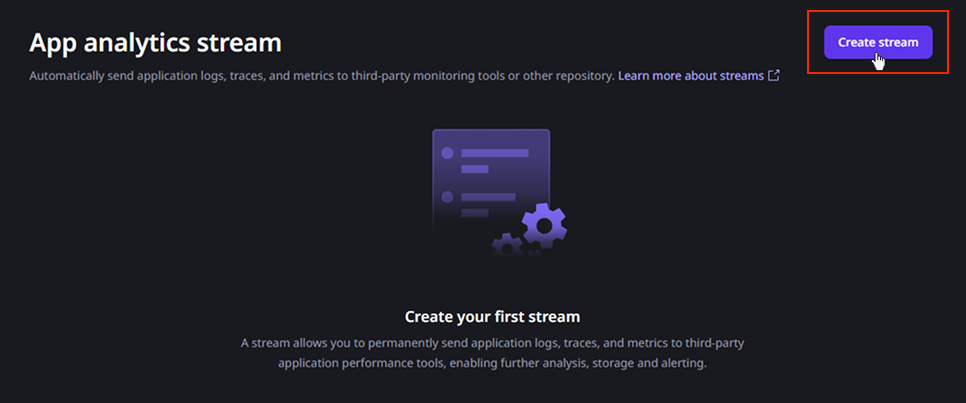
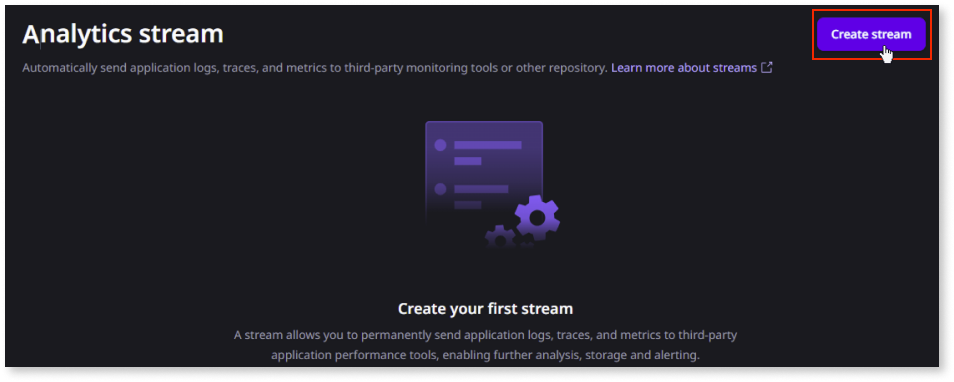
replaced app analytics stream with analytics stream tk-17991

Changed region(s): [[0.0, 0.0, 1.0, 1.0], [0.456, 0.4607, 0.608, 0.6335], [0.4256, 0.3168, 0.5776, 0.4607]]

diff --git a/src/eap/monitor-and-troubleshoot/stream-app-analytics/stream-app-analytics-overview.md b/src/eap/monitor-and-troubleshoot/stream-app-analytics/stream-app-analytics-overview.md
@@ -23,7 +23,7 @@ audience:
 
 <div class="info" markdown="1">
 
-App Analytics Stream require an add-on [subscription](../../manage-platform-app-lifecycle/subscription-console.md). Please contact your OutSystems account team for more information.
+**Analytics Stream** requires an add-on [subscription](../../manage-platform-app-lifecycle/subscription-console.md). Please contact your OutSystems account team for more information.
 
 This functionality uses the Data platform, which may process data outside your ODC organization region to provide its capabilities. For more information, refer to [Data platform](../../manage-platform-app-lifecycle/platform-architecture/intro.md#data-platform).
 
@@ -31,7 +31,7 @@ This functionality uses the Data platform, which may process data outside your O
 
 Streaming observability data is the process of continuously collecting and sending metric, log, and trace data to analysis and monitoring tools in near real-time. This gives you immediate insights into how your apps and systems are working. By streaming observability data in near real-time, you can proactively monitor, analyze, and respond to potential issues, ultimately enhancing app reliability and performance.
 
-With ODC's App Analytics Stream enabled, you can stream obserevability data from ODC apps to various third-party application performance monitoring (APM) tools, including Elastic Cloud, Datadog, Dynatrace, Splunk, New Relic, and Amazon S3. This real-time flow provides you with dynamic insights into app performance and behavior. 
+With ODC's **Analytics Stream** enabled, you can stream obserevability data from ODC apps to various third-party application performance monitoring (APM) tools, including Elastic Cloud, Datadog, Dynatrace, Splunk, New Relic, and Amazon S3. This real-time flow provides you with dynamic insights into app performance and behavior.
 
 ODC adopts the [OpenTelemetry](https://opentelemetry.io/) standard to stream observability data to various APM tools. OpenTelemetry is an [open-source](https://github.com/open-telemetry) observability framework comprising a collection of tools, APIs, and SDKs that you can use to instrument, generate, collect, and export observability data to help analyze your apps' performance and behavior. OpenTelemetry is tool-agnostic, meaning it can be used with various commercial and open-source APM tools without significant configuration changes.
 
@@ -39,9 +39,9 @@ ODC adopts the [OpenTelemetry](https://opentelemetry.io/) standard to stream obs
 
 Before you start streaming observability data, ensure you have:
 
-* A subscription to App Analytics Stream. Contact your account manager for provisioning.
+* A subscription to **Analytics stream**. Contact your account manager for provisioning.
 
-* The Manage App Analytics Stream permission.
+* The Manage **Analytics stream** permission.
 
 ## Benefits of streaming observability data
 
@@ -79,7 +79,7 @@ ODC uses the [OpenTelemetry Protocol (OTLP)](https://opentelemetry.io/docs/specs
 
 * For a scenario of temporary unavailability from the APM tool destination, failed batches are queued and retried for up to 48 hours in order to avoid data loss during this period. Such scenarios may delay the delivery of logs.
 * HTTP 500/gRPC Internal Error and HTTP 413 Payload Too Large responses from the APM tool ingestion will cause the current batch to be dropped.
-* APM tools may implement rules and limits to the ingestion, which are followed by App Analytics Stream when adherent to the OpenTelemetry protocol, but unexpected changes and other restrictive limits may impact the streaming service and prevent data from being ingested in the APM tool.
+* APM tools may implement rules and limits to the ingestion, which are followed by **Analytics Stream** when adherent to the OpenTelemetry protocol, but unexpected changes and other restrictive limits may impact the streaming service and prevent data from being ingested in the APM tool.
 
 </div>
 
@@ -96,7 +96,7 @@ ODC supports the following tools:
 
 <div class="info" markdown="1">
 
-Other tools compatible with the OpenTelemetry protocol and OTLP-formatted data are typically capable of interpreting ODC's observability data, but you need to evaluate them. Also, many APM tools are not native-compatible. For example, Splunk, Datadog, and Amazon S3 have implemented and distributed a public exporter library with the OpenTelemetry collector. 
+Other tools compatible with the OpenTelemetry protocol and OTLP-formatted data are typically capable of interpreting ODC's observability data, but you need to evaluate them. Also, many APM tools are not native-compatible. For example, Splunk, Datadog, and Amazon S3 have implemented and distributed a public exporter library with the OpenTelemetry collector.
 
 The OpenTelemetry collector is an app that runs separately and must be launched/supported by customers. For more information, refer to [Set up an OpenTelemetry collector.](stream-app-analytics-opentelemetry.md)
 
@@ -123,7 +123,7 @@ For detailed information, refer to [Streamed trace data](stream-app-analytics-tr
 
 **Metrics data** presents numerical measurements of your app's performance and resource usage. Key metrics include:
 
-*  **Total requests**: The total number of requests made to any asset originating from elements such as screens, client actions, REST/service actions, timers, and global event handlers. 
+* **Total requests**: The total number of requests made to any asset originating from elements such as screens, client actions, REST/service actions, timers, and global event handlers.
 
     <div class="info" markdown="1">
 
@@ -145,6 +145,6 @@ For detailed information, refer to [Streamed metrics data](stream-app-analytics-
 
 * [Set up the OpenTelemetry collector](stream-app-analytics-opentelemetry.md)
 
-* [Configuring streams in the ODC Portal](stream-app-analytics-configure.md)
+* [Configure analytics streams in the ODC Portal](stream-app-analytics-configure.md)
 
 * [Monitoring and troubleshooting apps](../monitor-apps.md)

diff --git a/src/eap/monitor-and-troubleshoot/stream-app-analytics/stream-app-analytics-apm.md b/src/eap/monitor-and-troubleshoot/stream-app-analytics/stream-app-analytics-apm.md
@@ -27,7 +27,7 @@ outsystems-tools:
 
 # Streaming observability data to APM tools
 
-With ODC's App Analytics Stream, you can stream your observability data in an OpenTelemetry Protocol (OTLP) format to different Application Performance Monitoring (APM) tools so that you can analyze, monitor, and proactively troubleshoot your system. You can easily integrate your app with any APM tool, as most monitoring tools support data ingestion in OpenTelemetry (OTel) format.
+With ODC's **Analytics Stream**, you can stream your observability data in an OpenTelemetry Protocol (OTLP) format to different Application Performance Monitoring (APM) tools so that you can analyze, monitor, and proactively troubleshoot your system. You can easily integrate your app with any APM tool, as most monitoring tools support data ingestion in OpenTelemetry (OTel) format.
 
 # Set up observability data streams
 
@@ -43,9 +43,9 @@ For information about the prerequisites for streaming observability data, refer 
 
 1. (Optional) [Set up OpenTelemetry collector](stream-app-analytics-opentelemetry.md). If your tool does not support native ingestion of OpenTelemetry data, you must install and deploy the OpenTelemetry collector.
 
-1. To enable streaming from an ODC app to the corresponding APM tool, you must configure the APM server URL or OpenTelemetry collector URL and authentication credentials. For more information, refer to [Configure app analytics streams in Portal](stream-app-analytics-configure.md).
+1. To enable streaming from an ODC app to the corresponding APM tool, you must configure the APM server URL or OpenTelemetry collector URL and authentication credentials. For more information, refer to [Configure analytics streams in the ODC Portal](stream-app-analytics-configure.md).
 
-1. Test and validate the connection. In the ODC Portal, test if your app has established a connection with the APM tool and if the test data is sent to the destination tool. For more information, refer to [Configure app analytics streams in Portal](stream-app-analytics-configure.md). If the connection fails, refer to the [troubleshooting guide](https://success.outsystems.com/support/errors/log_streaming_errors/) to understand why and how to resolve the errors and retest the connection.
+1. Test and validate the connection. In the ODC Portal, test if your app has established a connection with the APM tool and if the test data is sent to the destination tool. For more information, refer to [Configure analytics streams in the ODC Portal](stream-app-analytics-configure.md). If the connection fails, refer to the [troubleshooting guide](https://success.outsystems.com/support/errors/log_streaming_errors/) to understand why and how to resolve the errors and retest the connection.
 
 1. Add the stages you want to stream data from and save your stream.
 
@@ -71,4 +71,4 @@ For detailed information on streaming observability data to different APM tools,
 
 * [Set up the OpenTelemetry Collector](stream-app-analytics-opentelemetry.md)
 
-* [Configuring streams in the ODC Portal](stream-app-analytics-configure.md)
+* [Configure analytics streams in the ODC Portal](stream-app-analytics-configure.md)

diff --git a/src/eap/monitor-and-troubleshoot/stream-app-analytics/stream-app-analytics-splunk.md b/src/eap/monitor-and-troubleshoot/stream-app-analytics/stream-app-analytics-splunk.md
@@ -26,19 +26,19 @@ This article explains how you can stream observability data from ODC apps to the
 
 ## Prerequisites
 
-Before streaming observability data to **Splunk**, ensure you have a subscription to the **App Analytics Stream**. Contact your account manager for provisioning.
+Before streaming observability data to **Splunk**, ensure you have a subscription to the **Analytics Stream**. Contact your account manager for provisioning.
 
 ## Set up streaming observability data to Splunk
 
 To configure streaming observability data, using **Splunk** as the destination tool, follow these steps:
 
-1. Set up the HTTP Event Collector on Splunk. 
+1. Set up the HTTP Event Collector on Splunk.
 
     Refer to the instructions [here](https://docs.splunk.com/Documentation/Splunk/9.2.1/Data/UsetheHTTPEventCollector).
 
 1. Set up the [OpenTelemetry Collector](stream-app-analytics-opentelemetry.md)
 
-1. Configure a receiver that accepts HTTP or gRPC connections (refer to [OTLP Receiver](https://github.com/open-telemetry/opentelemetry-collector/blob/main/receiver/otlpreceiver/README.md) for an example) and that uses the Splunk Exporter 
+1. Configure a receiver that accepts HTTP or gRPC connections (refer to [OTLP Receiver](https://github.com/open-telemetry/opentelemetry-collector/blob/main/receiver/otlpreceiver/README.md) for an example) and that uses the Splunk Exporter.
 
     Refer to [Splunk HEC Example](https://github.com/signalfx/splunk-otel-collector/tree/main/examples/otel-logs-splunk) for an example.
 
@@ -46,12 +46,11 @@ To configure streaming observability data, using **Splunk** as the destination t
 
 1. Get the OpenTelemetry Collector endpoint and authentication credentials.
 
-Once you've completed these steps, go to the ODC Portal and [configure a stream](stream-app-analytics-configure.md). 
+Once you've completed these steps, go to the ODC Portal and [configure a stream](stream-app-analytics-configure.md).
 
 ## Additional resources
 
 [Get started with the Splunk Distribution of the OpenTelemetry Collector](https://docs.splunk.com/observability/en/gdi/opentelemetry/opentelemetry.html)
-
 
 ## Related resources
 
@@ -61,4 +60,4 @@ Once you've completed these steps, go to the ODC Portal and [configure a stream]
 
 * [Set up the OpenTelemetry Collector](stream-app-analytics-opentelemetry.md)
 
-* [Configure app analytics streams in Portal](stream-app-analytics-configure.md)
+* [Configure analytics streams in the ODC Portal](stream-app-analytics-configure.md)

diff --git a/src/eap/getting-started/capacity-limits.md b/src/eap/getting-started/capacity-limits.md
@@ -46,7 +46,7 @@ ODC enforces capacity limits per resource type. These limits apply at the stage 
 * **Custom code execution duration**: Custom code execution duration is the time taken to run [custom code](../building-apps/external-logic/intro.md) from start to completion. The daily custom code execution duration is the total execution time of all custom code runs in a day. 
 * **Database compute**: The amount of compute resources (memory and CPU) allocated to the database that's shared across all assets in a given stage.
 * **Database storage**: The storage capacity allocated to the database, shared across all assets in a stage.
-* **[App analytics stream](../monitor-and-troubleshoot/stream-app-analytics/stream-app-analytics-overview.md)**: Monthly limit on logs, traces, and metrics streaming across all stages.
+* **[Analytics stream](../monitor-and-troubleshoot/stream-app-analytics/stream-app-analytics-overview.md)**: Monthly limit on logs, traces, and metrics streaming across all stages.
 
 ### Runtime behavior and scaling
 
@@ -139,7 +139,7 @@ When approaching or surpassing capacity limits, the following issues may occur:
   * Run workflows and timers
 * Custom code execution duration: Calls to custom code libraries can cause errors and fail until the next day. This can lead to runtime errors in consumers.
 * Database compute and database storage: Apps and agents can experience performance issues, such as slower response times or timeout errors when accessing the database if there is insufficient capacity to accommodate all of the requests.
-* App analytics stream: You are warned when your organization's volume of streamed data is approaching the capacity limit.
+* Analytics stream: You are warned when your organization's volume of streamed data is approaching the capacity limit.
 
 When resource consumption is at its limit and actions that consume further resources are performed (like publishing a new app, for example), ODC displays an error. You may see these errors in ODC Studio when publishing, in ODC Portal when deploying to the next stage, or when manually running a timer. Other errors may also show at app runtime. These errors are also recorded in the [ODC logs](../monitor-and-troubleshoot/monitor-apps.md#logs).
 

diff --git a/src/eap/monitor-and-troubleshoot/stream-app-analytics/stream-app-analytics-new-relic.md b/src/eap/monitor-and-troubleshoot/stream-app-analytics/stream-app-analytics-new-relic.md
@@ -1,5 +1,5 @@
 ---
-summary: Stream observability data from OutSystems Developer Cloud (ODC) apps to New Relic using the App Analytics Stream subscription.
+summary: Stream observability data from OutSystems Developer Cloud (ODC) apps to New Relic using the Analytics Stream subscription.
 tags: observability data,new relic,apm tool,opentelemetry,api keys
 guid: 0142e89a-6164-41b9-bf04-3e41868496b8
 locale: en-us
@@ -25,7 +25,7 @@ This article explains how you can stream observability data from ODC apps to the
 
 ## Prerequisites
 
-Before streaming observability data to **New Relic**, ensure you have a subscription to the **App Analytics Stream**. Contact your account manager for provisioning.
+Before streaming observability data to **New Relic**, ensure you have a subscription to the **Analytics Stream**. Contact your account manager for provisioning.
 
 ## Set up streaming observability data to New Relic
 
@@ -49,7 +49,6 @@ Here are some additional helpful documentation, links, and articles:
 
 * [OpenTelemetry Collector configuration](https://opentelemetry.io/docs/collector/configuration/)
 
-
 ## Related resources
 
 * [Streaming observability data](stream-app-analytics-overview.md)
@@ -58,5 +57,4 @@ Here are some additional helpful documentation, links, and articles:
 
 * [Set up the OpenTelemetry Collector](stream-app-analytics-opentelemetry.md)
 
-* [Configure app analytics streams in Portal](stream-app-analytics-configure.md)
-
+* [Configure analytics streams in the ODC Portal](stream-app-analytics-configure.md)

diff --git a/src/eap/manage-platform-app-lifecycle/subscription-console.md b/src/eap/manage-platform-app-lifecycle/subscription-console.md
@@ -43,7 +43,7 @@ The **Overview** tab provides visibility of all your relevant consumptions, name
 * [Database compute](../getting-started/capacity-limits.md#resource-limits). Displays the amount of compute resources allocated to the database, and consumption, that is shared across all apps. In the details you can see the information by stage and filter it by time.
 * [Database storage](../getting-started/capacity-limits.md#resource-limits). Displays the amount of storage allocated to the database and consumption, that is shared across all apps. In the details you can see the information by stage and filter it by time.
 * [External end users](https://www.outsystems.com/tk/redirect?g=907b0fd3-bc46-4391-aae2-673296d795d9) and [Internal end users](https://www.outsystems.com/tk/redirect?g=907b0fd3-bc46-4391-aae2-673296d795d9). Displays the number of external end users available and consumed in your Production stage. In the details you can define [your user domains](../user-management/classify-users.md) to manage your users correctly.
-* [App analytics stream](../getting-started/capacity-limits.md#resource-limits). Displays the combined volume of app logs, traces, and metrics streamed per month from your organization.
+* [Analytics stream](../getting-started/capacity-limits.md#resource-limits). Displays the combined volume of app logs, traces, and metrics streamed per month from your organization.
 
 <div class="info" markdown="1">
 

diff --git a/src/eap/manage-platform-app-lifecycle/platform-architecture/intro.md b/src/eap/manage-platform-app-lifecycle/platform-architecture/intro.md
@@ -62,7 +62,7 @@ The **Data platform** collects, processes, and stores data from several sources.
 The Data platform receives data from the following features:
 
 * [Monitor app analytics](https://www.outsystems.com/tk/redirect?g=e190d5fb-6b99-4d9b-a64f-a3b34be3588d): Receives and processes logs, traces, and metrics from all ODC assets.  
-* [App analytics stream](https://www.outsystems.com/tk/redirect?g=43e08fbf-f050-4946-aad2-289ab110be44): Provides the capability to stream logs, traces, and metrics in real-time to external analysis and monitoring tools.  
+* [Analytics stream](https://www.outsystems.com/tk/redirect?g=43e08fbf-f050-4946-aad2-289ab110be44): Provides the capability to stream logs, traces, and metrics in real-time to external analysis and monitoring tools.  
 * [Audit trail](https://www.outsystems.com/tk/redirect?g=3f3bc6b9-7335-4d8b-bb41-2eb396b86f3c): Receives chronological records of platform actions and configurations.
 * [Code Quality](https://www.outsystems.com/tk/redirect?g=6be15662-74c5-4c35-9a7d-16a28816614c): Analyzes app code to provide insights into technical debt and identify areas for improvement.  
 * [Mentor App Generator](https://www.outsystems.com/tk/redirect?g=b17a8f2d-c767-49b4-9f50-381329442aba): Supports the Mentor App Generator by processing requirements documents, conversation history, and app metadata.  

diff --git a/src/eap/monitor-and-troubleshoot/stream-app-analytics/stream-app-analytics-amazon-s3.md b/src/eap/monitor-and-troubleshoot/stream-app-analytics/stream-app-analytics-amazon-s3.md
@@ -25,7 +25,7 @@ This article explains how you can stream observability data from ODC apps to **A
 
 ## Prerequisites
 
-Before streaming observability data to **Amazon S3**, ensure you have a subscription to the **App Analytics Stream**. Contact your account manager for provisioning.
+Before streaming observability data to **Amazon S3**, ensure you have a subscription to the **Analytics Stream**. Contact your account manager for provisioning.
 
 <div class="info" markdown="1">
 
@@ -43,7 +43,7 @@ To set up streaming observability data, using **Amazon S3** as the destination s
 
 1. Get the OpenTelemetry Collector endpoint and authentication credentials.
 
-Once you've completed these steps, go to the ODC Portal and [configure a stream](stream-app-analytics-configure.md). 
+Once you've completed these steps, go to the ODC Portal and [configure a stream](stream-app-analytics-configure.md).
 
 ## Additional resources
 
@@ -61,6 +61,4 @@ Here are some additional helpful documents:
 
 * [Set up the OpenTelemetry Collector](stream-app-analytics-opentelemetry.md)
 
-* [Configure app analytics streams in Portal](stream-app-analytics-configure.md)
-
-
+* [Configure analytics streams in the ODC Portal](stream-app-analytics-configure.md)

diff --git a/src/eap/monitor-and-troubleshoot/stream-app-analytics/stream-app-analytics-opentelemetry.md b/src/eap/monitor-and-troubleshoot/stream-app-analytics/stream-app-analytics-opentelemetry.md
@@ -25,7 +25,7 @@ This article explains how to set up the OpenTelemetry collector for application 
 
 ## Prerequisites
 
-Before setting up the OpenTelemetry collector, ensure you have a subscription to the **App Analytics Stream**. Contact your account manager for provisioning.
+Before setting up the OpenTelemetry collector, ensure you have a subscription to the **Analytics Stream**. Contact your account manager for provisioning.
 
 ## Set up the OpenTelemetry collector
 
@@ -90,11 +90,11 @@ Remember to edit the following:
        exporters: [datadog]
 
 ```
+
 # Related resources
 
 * [Streaming observability data](stream-app-analytics-overview.md)
+
 * [Streaming observability data to APM tools](stream-app-analytics-apm.md)  
-* [Configure app analytics streams in Portal](stream-app-analytics-configure.md)
 
-
-  
+* [Configure analytics streams in the ODC Portal](stream-app-analytics-configure.md)

diff --git a/src/eap/monitor-and-troubleshoot/stream-app-analytics/stream-app-analytics-configure.md b/src/eap/monitor-and-troubleshoot/stream-app-analytics/stream-app-analytics-configure.md
@@ -18,7 +18,7 @@ audience:
 helpids: 30636
 ---
 
-# Configure app analytics streams in Portal
+# Configure analytics streams in the ODC Portal
 
 To stream observability data from your app to the corresponding APM tool, you must create a stream and configure the APM server details and authentication credentials. This article explains how to create streams in the ODC Portal for a specific APM tool.
 
@@ -26,7 +26,7 @@ To stream observability data from your app to the corresponding APM tool, you mu
 
 Before creating a stream, refer to the [prerequisites for streaming observability data](stream-app-analytics-overview.md#prerequisites).
 
-## Create a stream 
+## Create a stream
 
 This example demonstrates the process of creating a stream using **New Relic** as the destination APM tool. The steps might vary slightly depending on the APM tool you select.
 

diff --git a/src/eap/monitor-and-troubleshoot/stream-app-analytics/stream-app-analytics-dynatrace.md b/src/eap/monitor-and-troubleshoot/stream-app-analytics/stream-app-analytics-dynatrace.md
@@ -27,7 +27,7 @@ This article explains how you can stream observability data from ODC apps to the
 
 ## Prerequisites
 
-Before streaming observability data to **Dynatrace**, ensure you have a subscription to the **App Analytics Stream**. Contact your account manager for provisioning.
+Before streaming observability data to **Dynatrace**, ensure you have a subscription to the **Analytics Stream**. Contact your account manager for provisioning.
 
 ## Set up streaming observability data to Dynatrace
 
@@ -57,4 +57,4 @@ Large 'content' and 'exception.stacktrace' attribute values are truncated to 4,0
 
 * [Set up the OpenTelemetry Collector](stream-app-analytics-opentelemetry.md)
 
-* [Configure app analytics streams in Portal](stream-app-analytics-configure.md)
+* [Configure analytics streams in the ODC Portal](stream-app-analytics-configure.md)

diff --git a/src/eap/monitor-and-troubleshoot/stream-app-analytics/stream-app-analytics-datadog.md b/src/eap/monitor-and-troubleshoot/stream-app-analytics/stream-app-analytics-datadog.md
@@ -26,7 +26,7 @@ This article explains how you can stream observability data from ODC apps to the
 
 ## Prerequisites
 
-Before streaming observability data to **Datadog**, ensure you have a subscription to the **App Analytics Stream**. Contact your account manager for provisioning.
+Before streaming observability data to **Datadog**, ensure you have a subscription to the **Analytics Stream**. Contact your account manager for provisioning.
 
 ## Set up streaming observability data to Datadog
 
@@ -58,4 +58,4 @@ Here are some additional helpful documents, links, and articles:
 
 * [Set up the OpenTelemetry Collector](stream-app-analytics-opentelemetry.md)
 
-* [Configure app analytics streams in Portal](stream-app-analytics-configure.md)
+* [Configure analytics streams in the ODC Portal](stream-app-analytics-configure.md)
